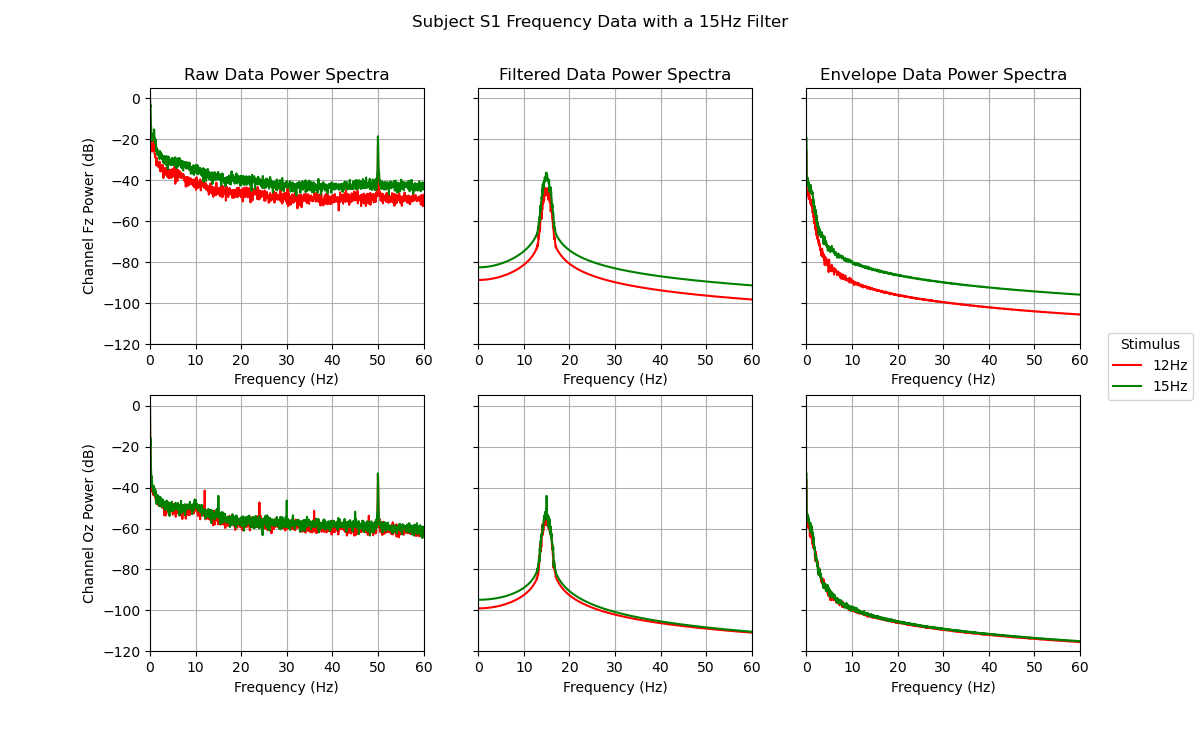
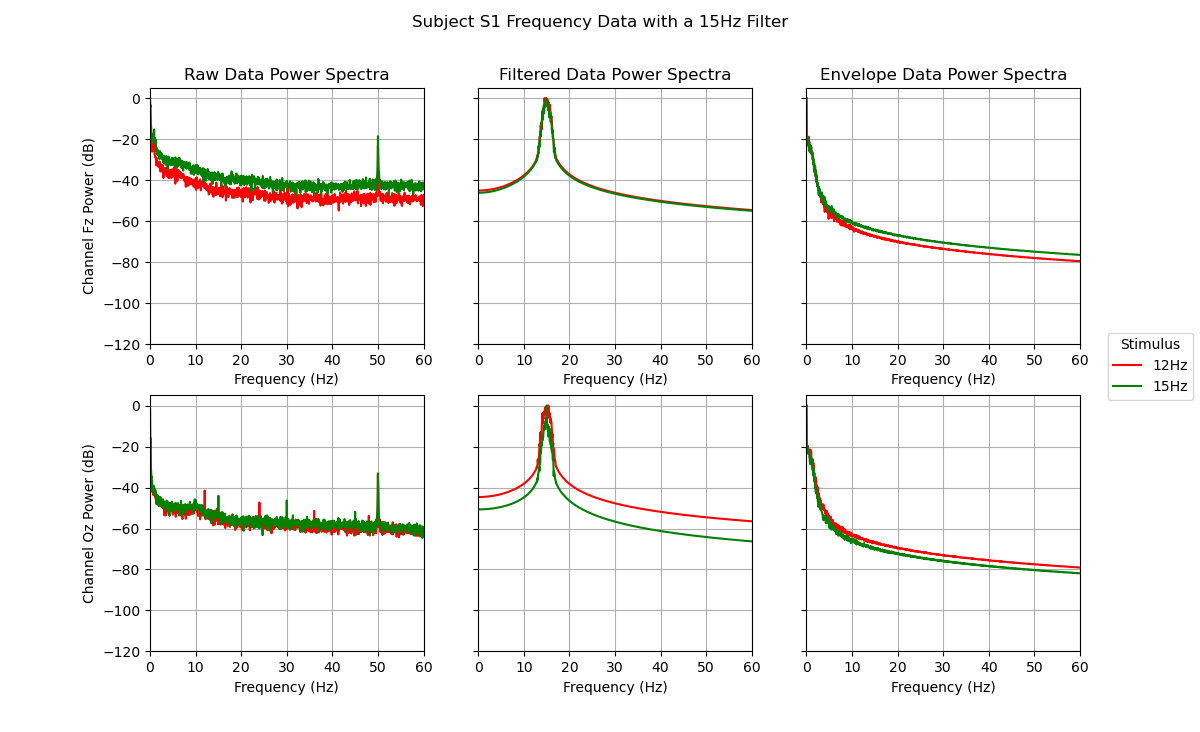
Plots with different normalization factors

diff --git a/filter_ssvep_data.py b/filter_ssvep_data.py
@@ -304,8 +304,6 @@ def plot_ssvep_amplitudes(data, envelope_a, envelope_b, channel_to_plot, ssvep_f
         - Way to avoid adding the optional inputs (doesn't ask for channels_to_plot, subject, or filter_frequency)?
         - Can efficiency or concision be improved?
             - Enumerate for each of the data "types" (raw, filtered, envelope) and then call functions?
-        - Comment out figure after code complete
-        - Normalize to raw or each individual dataset?
 
 """
 
@@ -352,12 +350,14 @@ def plot_filtered_spectra(data, filtered_data, envelope, channels_to_plot=['Fz',
     # filtered data
     filtered_epochs = epoch_ssvep_data(data, eeg_data=filtered_data)[0] # epoch filtered data, only need epochs
     filtered_epochs_fft = get_frequency_spectrum(filtered_epochs, fs)[0] # frequency spectrum of filtered data, only need FFT of epochs
-    filtered_spectrum_db_15Hz, filtered_spectrum_db_12Hz = plot_power_spectrum(filtered_epochs_fft, fft_frequencies, is_trial_15Hz, channels, channels_to_plot, subject, is_plotting=False, event_15_normalization_factor=raw_event_15_normalization_factor, event_12_normalization_factor=raw_event_12_normalization_factor)[0:2] # power spectrum for envelope data, only taking spectra (not max normalization factors)
+    # filtered_spectrum_db_15Hz, filtered_spectrum_db_12Hz = plot_power_spectrum(filtered_epochs_fft, fft_frequencies, is_trial_15Hz, channels, channels_to_plot, subject, is_plotting=False, event_15_normalization_factor=raw_event_15_normalization_factor, event_12_normalization_factor=raw_event_12_normalization_factor)[0:2] # normalized to raw spectra
+    filtered_spectrum_db_15Hz, filtered_spectrum_db_12Hz = plot_power_spectrum(filtered_epochs_fft, fft_frequencies, is_trial_15Hz, channels, channels_to_plot, subject, is_plotting=False, event_15_normalization_factor=None, event_12_normalization_factor=None)[0:2] # normalized to itself
     
     # envelope data
     envelope_epochs = epoch_ssvep_data(data, eeg_data=envelope)[0] # epoch envelope data, only need epochs
     envelope_epochs_fft = get_frequency_spectrum(envelope_epochs, fs)[0] # frequency spectrum of envelope data, only need FFT of epochs
-    envelope_spectrum_db_15Hz, envelope_spectrum_db_12Hz = plot_power_spectrum(envelope_epochs_fft, fft_frequencies, is_trial_15Hz, channels, channels_to_plot, subject, is_plotting=False, event_15_normalization_factor=raw_event_15_normalization_factor, event_12_normalization_factor=raw_event_12_normalization_factor)[0:2] # power spectrum for envelope data, only taking spectra (not max normalization factors)
+    # envelope_spectrum_db_15Hz, envelope_spectrum_db_12Hz = plot_power_spectrum(envelope_epochs_fft, fft_frequencies, is_trial_15Hz, channels, channels_to_plot, subject, is_plotting=False, event_15_normalization_factor=raw_event_15_normalization_factor, event_12_normalization_factor=raw_event_12_normalization_factor)[0:2] # normalized to raw spectra
+    envelope_spectrum_db_15Hz, envelope_spectrum_db_12Hz = plot_power_spectrum(envelope_epochs_fft, fft_frequencies, is_trial_15Hz, channels, channels_to_plot, subject, is_plotting=False, event_15_normalization_factor=None, event_12_normalization_factor=None)[0:2] # normalized to itself
     
     # initialize figure
     figure, plots = plt.subplots(channels_to_plot_count,3, sharex=True, sharey=True, figsize=(12, 8))
@@ -405,5 +405,5 @@ def plot_filtered_spectra(data, filtered_data, envelope, channels_to_plot=['Fz',
     figure.suptitle(f'Subject S{subject} Frequency Data with a {filter_frequency}Hz Filter')
     
     # save figure
-    plt.savefig(f'SSVEP_S{subject}_frequency_content_{filter_frequency}Hz_filter.png')
+    # plt.savefig(f'SSVEP_S{subject}_frequency_content_{filter_frequency}Hz_filter.png')
     

diff --git a/test_filter_ssvep_data.py b/test_filter_ssvep_data.py
@@ -92,5 +92,5 @@ plot_filtered_spectra(data=data_dict, filtered_data=filtered_data_15Hz, envelope
 
 '''
 Describe how the spectra change at each stage and why.
-    a. Raw data exhibit many peaks (stimuli, harmonics, artifacts, etc.). Power spectra depict prevelance of a frequency within a signal, so filtering will reduce the variety of frequencies in a signal, highlighted by the smoothed nature of the spectra after the raw data. Peak at 12Hz (centered around 15Hz filter) disappears at higher orders but is prominent at lower orders. Peaks about width of bandpass, higher order required for sharper peak. In envelope, higher frequencies get knocked out. Envelope takes frequency of amplitudes, and that is not limited to 15Hz; thus, there is no peak at 15Hz. Changes in amplitude are very small (low frequency), so the higher power occurs at lower frequencies and continues to decrease as frequencies increase.
+    a. Raw data exhibit many peaks (stimuli, harmonics, artifacts, etc.). Power spectra depict prevelance of a frequency within a signal, so filtering will reduce the variety of frequencies in a signal, highlighted by the smoothed nature of the spectra after the raw data. Peak at 12Hz (centered around 15Hz filter) disappears at higher orders but is prominent at lower orders. Spectra changes to reflect most prominent signal frequencies within the dataset; for the 15Hz filter, 15Hz will demonstrate a peak centered at that point. Peaks about width of bandpass, higher order required for sharper peak. In envelope, higher frequencies get knocked out. Envelope takes frequency of amplitudes, and that is not limited to 15Hz; thus, there is no peak at 15Hz. Changes in amplitude are very small (low frequency), so the higher power occurs at lower frequencies and continues to decrease as frequencies increase. The difference between the 12Hz and 15Hz stimuli power spectra is dependent on normalization: This difference (where the 12Hz stimulus is higher than the 15Hz stimulus) appears when the dataset is normalized to itself (raw to raw, filtered to filtered, envelope to envelope). This phenomenon can also be observed when the DC component of the data is removed. However, if the data are all normalized to the raw data, little to no difference is observed for the filtered power spectra at the two stimuli for channel Oz. 
 '''
